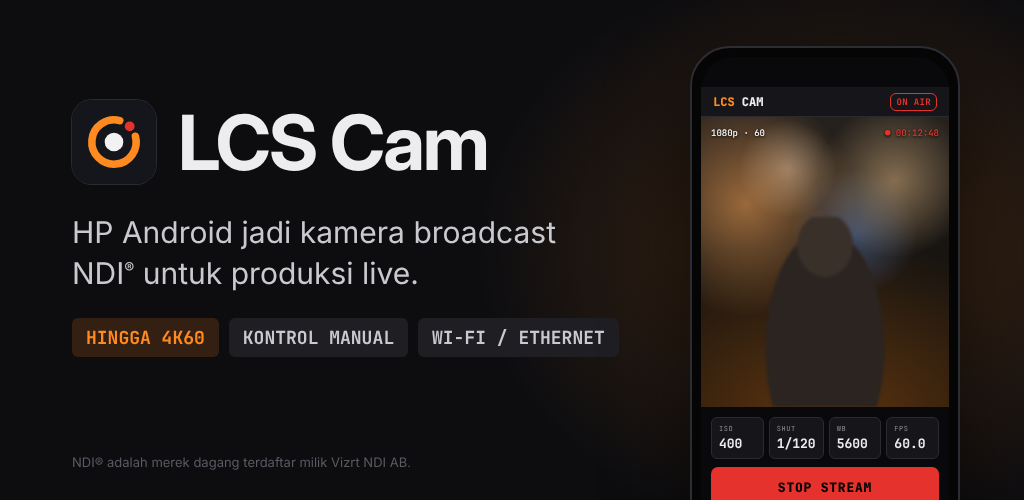
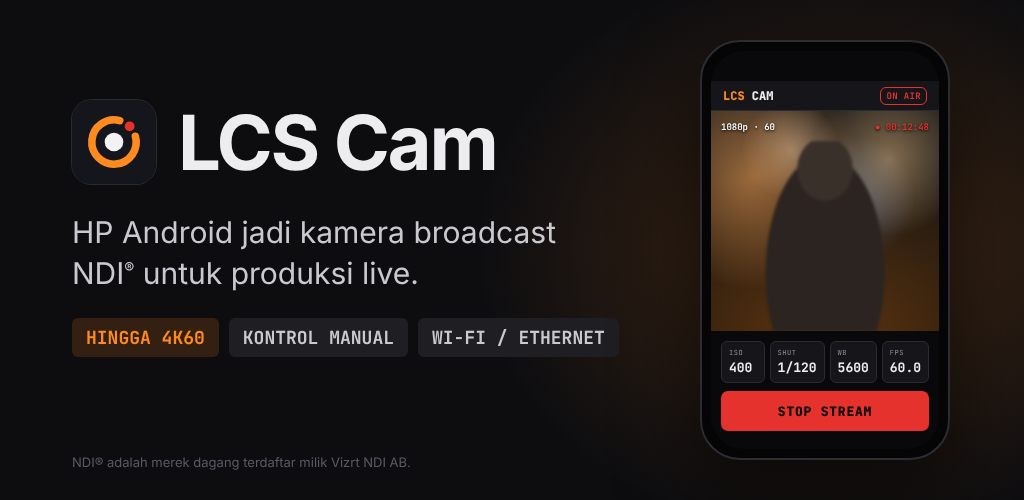
Restore phone mockup in feature graphic and fit it inside the canvas
Claude-Session: https://claude.ai/code/session_01Ltodu7gPK8vunTXqL12X23

Changed region(s): [[0.6562, 0.06, 0.9375, 1.0], [0.1875, 0.21, 0.5, 0.36], [0.25, 0.54, 0.2812, 0.57]]

diff --git a/design/store-listing/feature-graphic.html b/design/store-listing/feature-graphic.html
@@ -82,4 +82,19 @@ body{background:#0D0D10;font-family:Inter,sans-serif;color:var(--text)}
   <span class="tag" style="font-size:18px;padding:8px 14px;color:#C9C9D0">WI-FI / ETHERNET</span>
  </div>
  <div style="position:absolute;left:72px;bottom:30px;font-size:13px;color:#5A5A63">NDI® adalah merek dagang terdaftar milik Vizrt NDI AB.</div>
+ 
+ <div style="position:absolute;left:700px;top:40px;width:250px;height:420px;border-radius:40px;background:#050506;border:2px solid #2C2C33;box-shadow:0 30px 80px rgba(0,0,0,.6)">
+  <div style="position:absolute;inset:9px;border-radius:32px;overflow:hidden;background:#09090B">
+   <div style="height:30px"></div>
+   <div style="height:30px;background:var(--panel);display:flex;align-items:center;padding:0 12px;gap:6px;border-bottom:1px solid var(--line)"><span class="brand" style="font-size:12px"><b>LCS</b> CAM</span><span class="sp"></span><span class="pill" style="font-size:9px;padding:2px 5px;color:var(--rec);border-width:1px">ON AIR</span></div>
+   <div class="preview" style="height:220px"><div class="scene"></div><div class="subject" style="width:120px;height:190px;margin-left:-60px;transform:scale(1);background:radial-gradient(28px 32px at 50% 28px,#3a302a 98%,transparent 100%),radial-gradient(60px 120px at 50% 132px,#2b2420 98%,transparent 100%)"></div>
+    <div class="hud" style="top:10px;left:10px;right:10px;font-size:9px"><span>1080p · 60</span><span style="color:var(--rec)">● 00:12:48</span></div></div>
+   <div style="padding:10px"><div class="cells" style="gap:5px">
+    <div class="cell" style="padding:6px 7px;border-radius:6px"><div class="l" style="font-size:7px">ISO</div><div class="v" style="font-size:13px;margin-top:2px">400</div></div>
+    <div class="cell" style="padding:6px 7px;border-radius:6px"><div class="l" style="font-size:7px">SHUT</div><div class="v" style="font-size:13px;margin-top:2px">1/120</div></div>
+    <div class="cell" style="padding:6px 7px;border-radius:6px"><div class="l" style="font-size:7px">WB</div><div class="v" style="font-size:13px;margin-top:2px">5600</div></div>
+    <div class="cell" style="padding:6px 7px;border-radius:6px"><div class="l" style="font-size:7px">FPS</div><div class="v" style="font-size:13px;margin-top:2px">60.0</div></div></div>
+    <div class="btn" style="height:40px;font-size:13px;border-radius:7px;margin-top:8px;background:var(--rec)">STOP STREAM</div></div>
+  </div></div>
+</div>
 </body></html>
